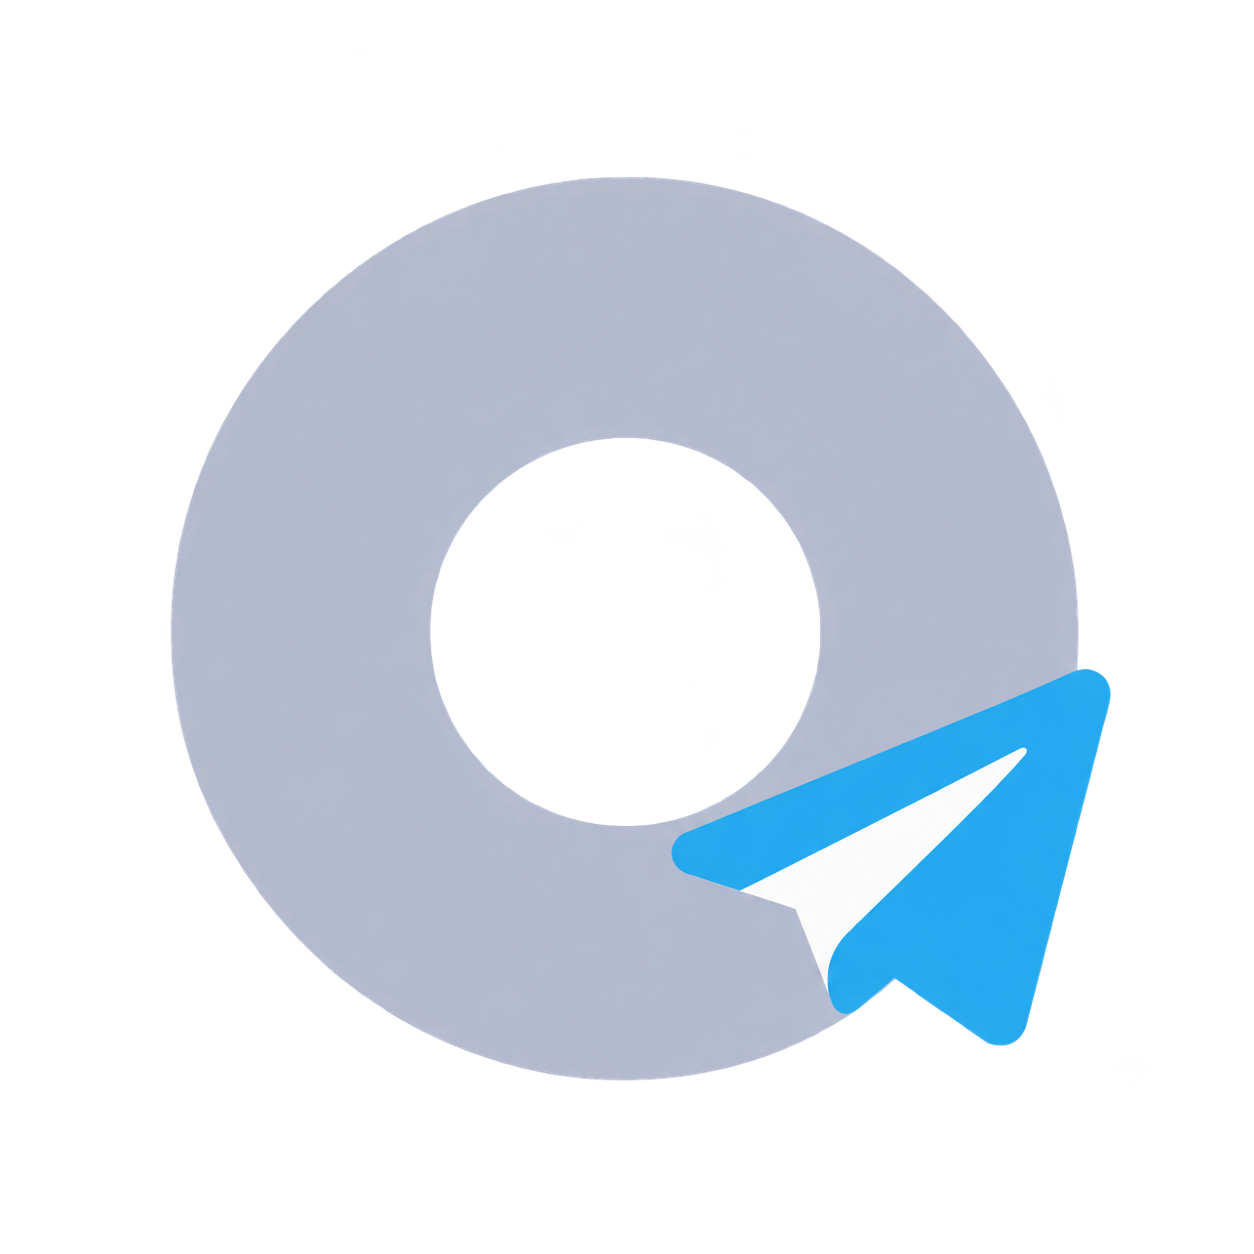
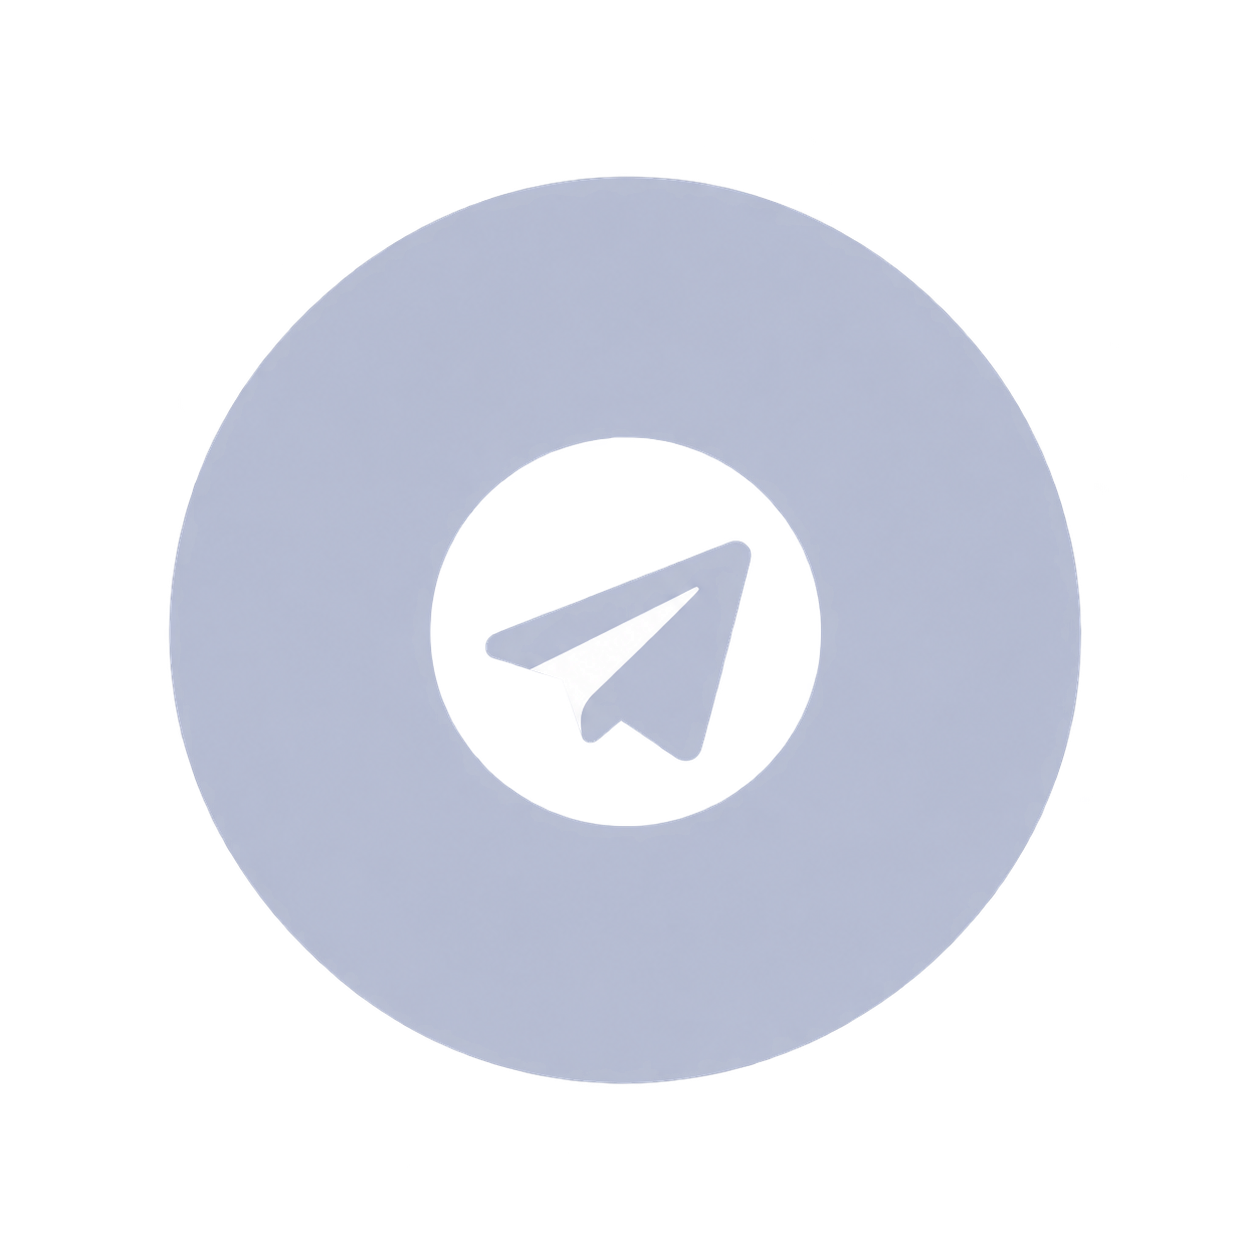
Center a matching monochrome paper plane in the dotg ring

diff --git a/docs/assets/README.md b/docs/assets/README.md
@@ -1,6 +1,6 @@
 # Visual assets
 
-- `dotg-icon.png`: the Dot ring combined with a Telegram paper plane; transparent exterior and center.
+- `dotg-icon.png`: the Dot ring with a small matching lavender-gray Telegram paper plane centered inside its opening; transparent exterior and space around the plane.
 - `dotg-logo.png`: horizontal icon and wordmark for the README.
 - `how-it-works.png`: the Telegram → Mac → Dot round trip, with a separate return path.
 
